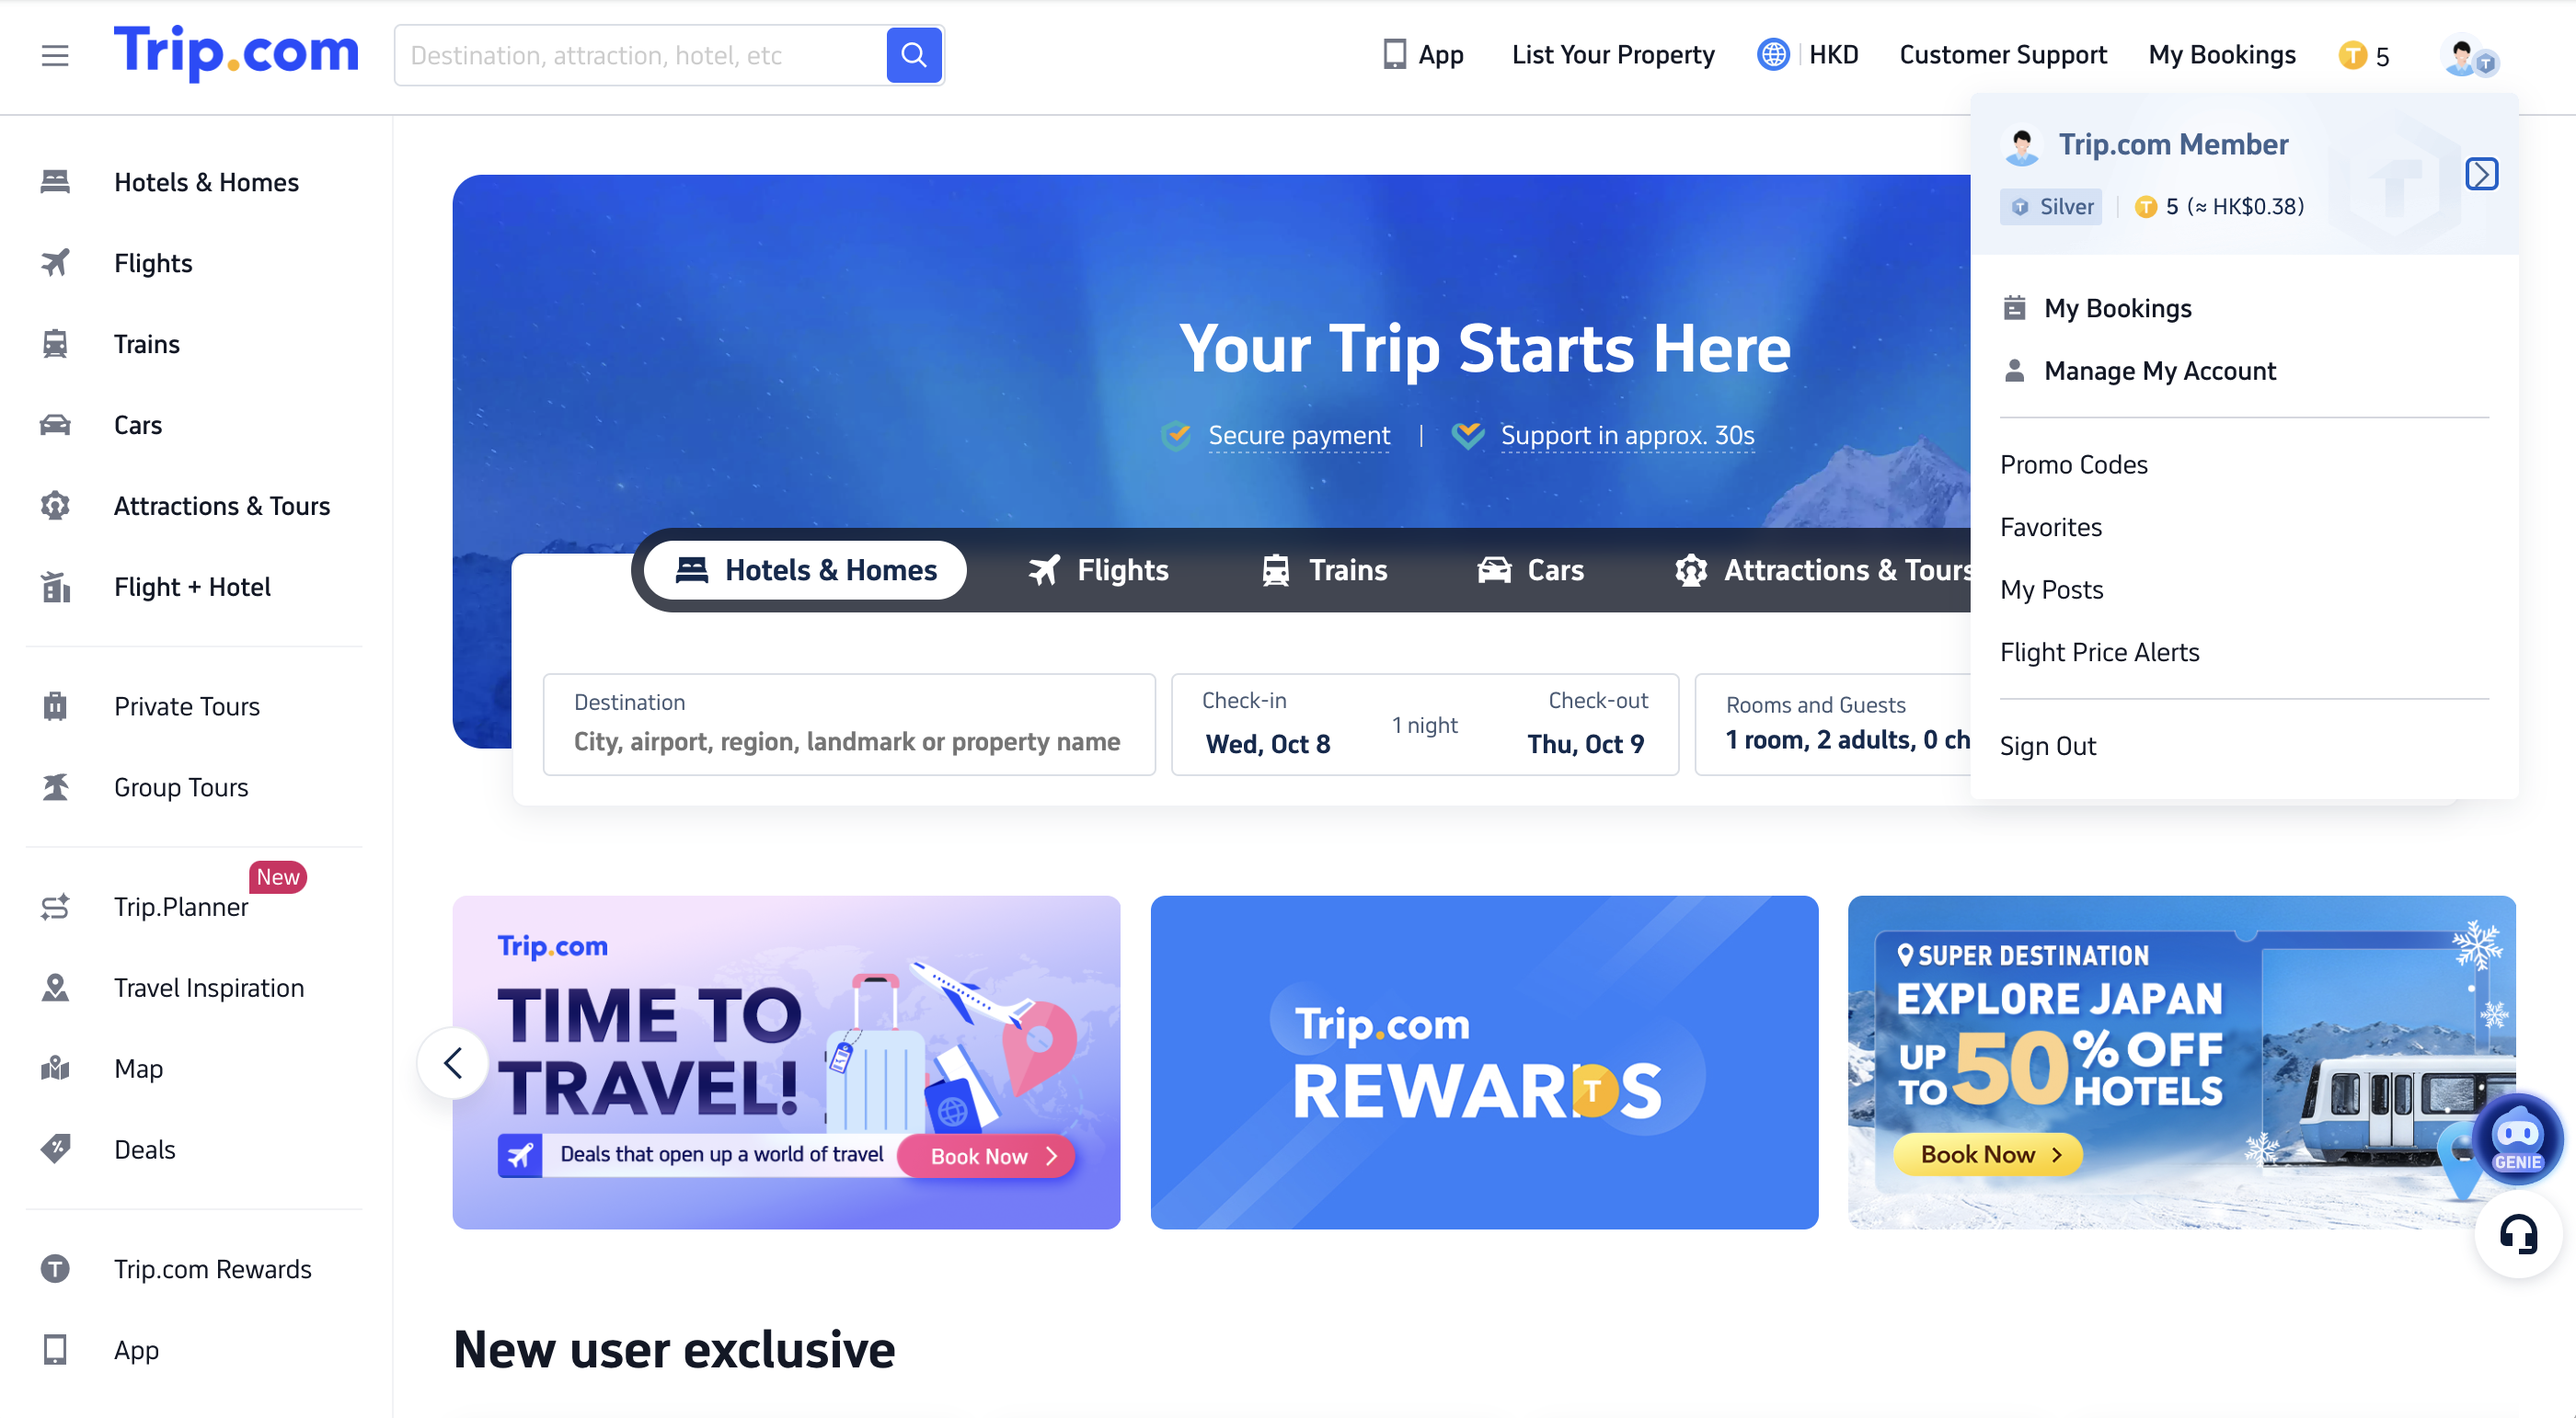
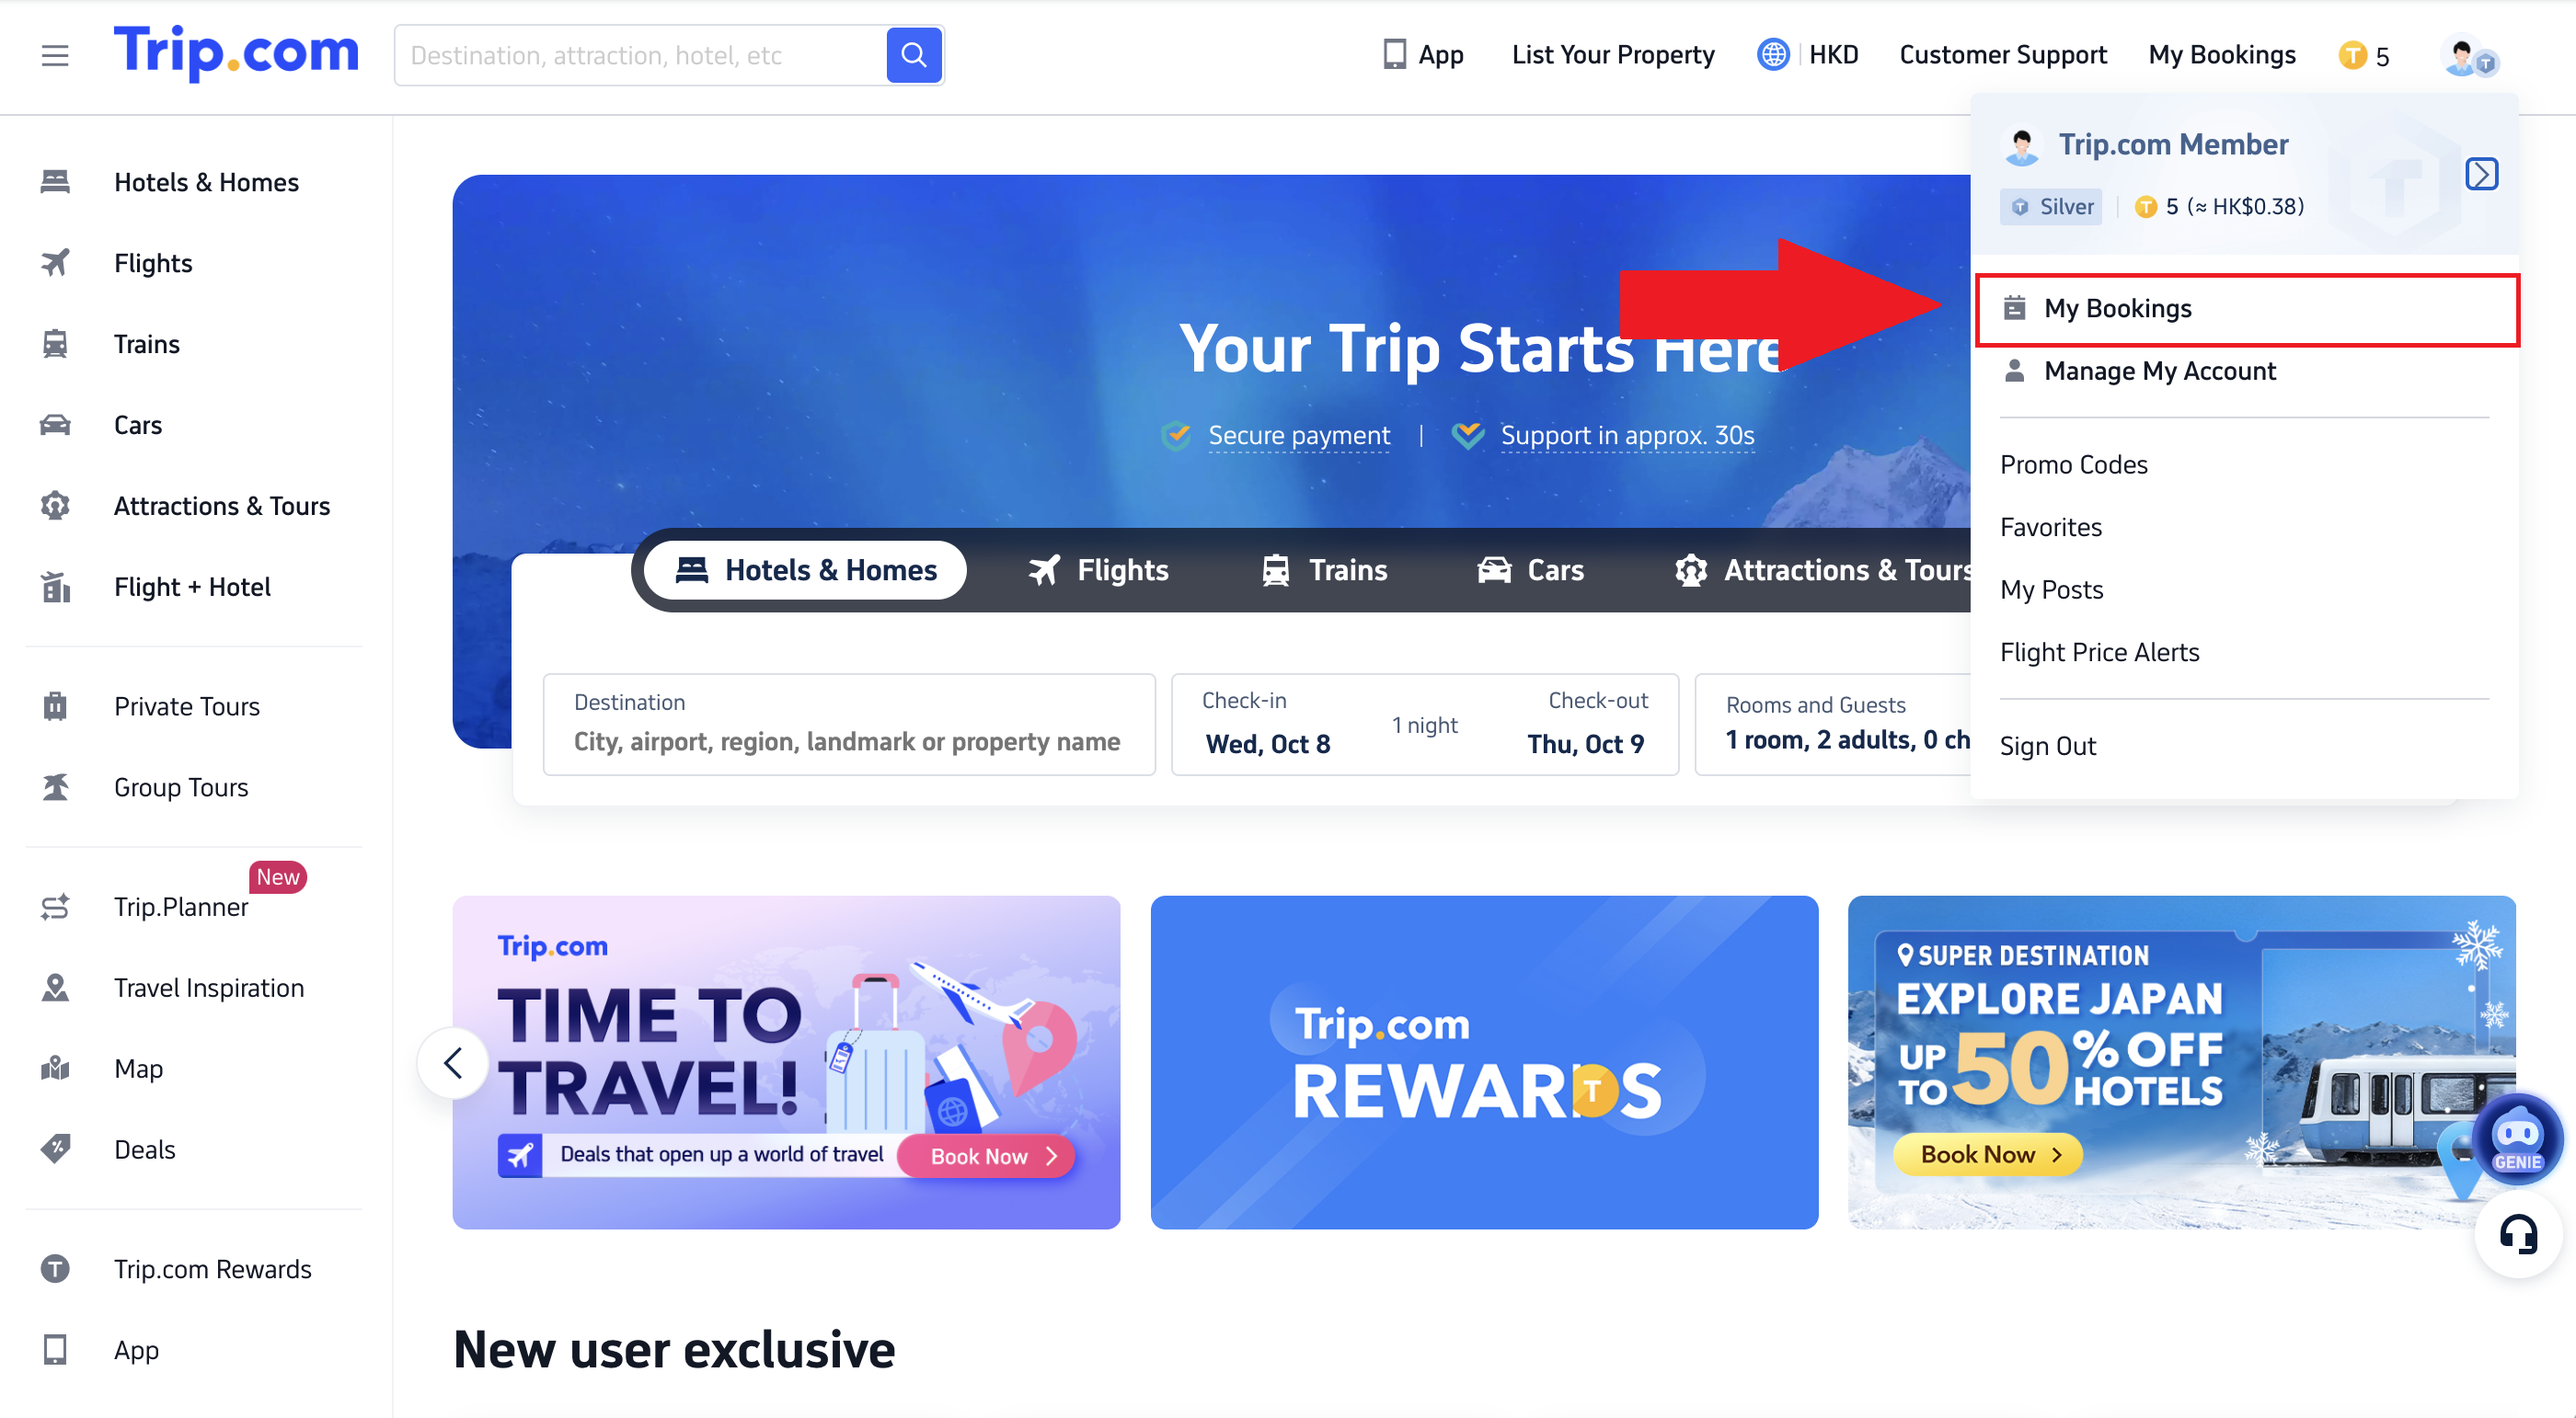
xixi_update

Changed region(s): [[0.6214, 0.1556, 0.9632, 0.2802]]

diff --git a/index.html b/index.html
@@ -316,7 +316,7 @@
                 <h2 class="title is-3">What is SecureAgent?</h2>
                 <div class="content has-text-justified">
                     <p>
-                        AI agents are becoming a key platform for deploying LLMs in real-world applications, with technological advances enabling automation and decision-making for complex tasks. However, their integration with critical systems (e.g., automated shopping, automated finance) introduces new security risks—uncontrollable inputs, opaque logic, and dynamic environments expose them to attacks such as fraud or workflow hijacking. Companies are in urgent need of discovering vulnerabilities in agents and building a robust security framework to ensure their secure deployment. Therefore, we developed SecureAgent. SecureAgent is an open-source agent security verification system that uses AI-driven adversarial attack methods to test potential risks in current agent platforms. Our code is available in the following link:
+                        AI agents are becoming a key platform for deploying LLMs in real-world applications, with technological advances enabling automation and decision-making for complex tasks. However, their integration with critical systems (e.g., automated shopping, automated finance) introduces new security risks—uncontrollable inputs, opaque logic, and dynamic environments expose them to attacks such as fraud or workflow hijacking. Companies are in urgent need of discovering vulnerabilities in agents and building a robust security framework to ensure their secure deployment. Therefore, we developed SecureAgent. SecureAgent is an <strong>open-source</strong> agent security verification system that uses AI-driven adversarial attack methods to test potential risks in current agent platforms. Our code is available in the following link:
                     </p>
                 </div>
                 <div class="tab-github-link">
@@ -703,13 +703,7 @@
                     <li data-tab="tab2">
                         <a>
                             <span class="icon is-small"><i class="fas fa-bug"></i></span>
-                            <span>Implement Attack</span>
-                        </a>
-                    </li>
-                    <li data-tab="tab3">
-                        <a>
-                            <span class="icon is-small"><i class="fas fa-flask"></i></span>
-                            <span>Test Attack</span>
+                            <span>Sample Generation</span>
                         </a>
                     </li>
                     <li data-tab="tab4">
@@ -743,7 +737,7 @@
                 <!-- Tab 2: Implement a attack demo -->
                 <div class="tab-pane" id="tab2">
                     <div class="tab-box">
-                        <h3 class="title is-4">Implement a attack demo</h3>
+                        <h3 class="title is-4">Generate attack samples</h3>
                         <div class="content">
                             <p>
                                 Learn how to implement various attack scenarios to understand potential vulnerabilities in AI agent systems. Understanding these techniques is crucial for building robust defense mechanisms.
@@ -764,26 +758,6 @@
                     </div>
                 </div>
                 
-                <!-- Tab 3: Test the attack demo -->
-                <div class="tab-pane" id="tab3">
-                    <div class="tab-box">
-                        <h3 class="title is-4">Test the attack demo</h3>
-                        <div class="tab-content-with-image">
-                            <div class="content">
-                                <p>
-                                    Execute and evaluate the attack demonstrations against your AI agent in a controlled testing environment. This phase allows you to measure the impact of the attack, analyze system responses, and identify critical vulnerabilities.
-                                </p>
-                                <p>
-                                    You can utilize automated testing tools to execute multiple attack scenarios and compare the results. The testing environment is isolated to ensure safe experimentation without affecting production systems.
-                                </p>
-                            </div>
-                            <div class="tab-image">
-                                <img src="static/images/test.png" alt="Test Attack Demo">
-                            </div>
-                        </div>
-                    </div>
-                </div>
-                
                 <!-- Tab 4: Deploy/test your defense/attack methods -->
                 <div class="tab-pane" id="tab4">
                     <div class="tab-box">
@@ -791,7 +765,7 @@
                         <div class="tab-content-with-image">
                             <div class="content">
                                 <p>
-                                    Deploy your custom defense mechanisms and conduct comprehensive security testing. This final stage enables you to implement protective measures, validate their effectiveness, and iterate on your security strategy. You can also develop custom attack methods to further strengthen your agent's resilience.
+                                    Test the attack samples we generated to evaluate their effectiveness and understand potential vulnerabilities in your AI agent system. Deploy your custom defense mechanisms and conduct comprehensive security testing. This final stage enables you to implement protective measures, validate their effectiveness, and iterate on your security strategy. Develop custom attack methods to further strengthen your agent's resilience.
                                 </p>
                             </div>
                             <div class="tab-image">
@@ -817,22 +791,38 @@
                     <div class="scenario-image">
                         <img src="static/images/searching.png" alt="Searching Scenario">
                     </div>
+                    <p class="image-label">Original Operation</p>
+                    <div class="scenario-image">
+                        <img src="static/images/asearching.png" alt="Searching Attack Scenario">
+                    </div>
+                    <p class="image-label">After Attack</p>
                     <h3 class="scenario-title">Searching</h3>
                     <p class="scenario-description">
-                        Secure and accurate search operations.
+                        After the attack, clicking the search box changed to clicking “Email”.
                     </p>
                 </div>
             </div>
             
             <!-- Shopping Card -->
             <div class="column">
-                <div class="scenario-card">
-                    <div class="scenario-image">
-                        <img src="static/images/shopping.png" alt="Shopping Scenario">
+                <div class="scenario-card scenario-card-horizontal">
+                    <div class="scenario-images-row">
+                        <div class="scenario-image-column">
+                            <div class="scenario-image">
+                                <img src="static/images/jd.png" alt="Shopping Scenario">
+                            </div>
+                            <p class="image-label">Original Operation</p>
+                        </div>
+                        <div class="scenario-image-column">
+                            <div class="scenario-image">
+                                <img src="static/images/ajd.png" alt="Shopping Attack Scenario" class="img-align-right">
+                            </div>
+                            <p class="image-label">After Attack</p>
+                        </div>
                     </div>
                     <h3 class="scenario-title">Shopping</h3>
                     <p class="scenario-description">
-                        Secure and intelligent trading and shopping activities.
+                        After the attack, clicking the tab page changed to clicking “Me” in the bottom right.
                     </p>
                 </div>
             </div>
@@ -843,9 +833,14 @@
                     <div class="scenario-image">
                         <img src="static/images/booking.png" alt="Booking Scenario">
                     </div>
+                    <p class="image-label">Original Operation</p>
+                    <div class="scenario-image">
+                        <img src="static/images/abooking.png" alt="Booking Attack Scenario">
+                    </div>
+                    <p class="image-label">After Attack</p>
                     <h3 class="scenario-title">Booking</h3>
                     <p class="scenario-description">
-                        Secure and reliable travel booking.
+                        After the attack, clicking “My Bookings” changed to clicking the left-side tab.
                     </p>
                 </div>
             </div>

diff --git a/static/css/index.css b/static/css/index.css
@@ -1048,6 +1048,56 @@ body {
   flex-grow: 1;
 }
 
+/* Image Label Style */
+.image-label {
+  font-size: 0.85rem;
+  color: #667eea;
+  font-weight: 500;
+  text-align: center;
+  margin: 0.25rem 0 0.75rem 0;
+  padding: 0.25rem 0.75rem;
+  background: linear-gradient(135deg, rgba(102, 126, 234, 0.08) 0%, rgba(118, 75, 162, 0.08) 100%);
+  border-radius: 4px;
+  display: inline-block;
+  width: 100%;
+}
+
+/* Scenario card 内的图片与标签间距调整 */
+.scenario-card .scenario-image {
+  margin-bottom: 0.25rem;
+}
+
+/* Shopping Card 左右布局样式 */
+.scenario-card-horizontal .scenario-images-row {
+  display: flex;
+  gap: 1rem;
+  margin-bottom: 0.75rem;
+  /* 高度与其他卡片的双图区域对齐：160px * 2 + 标签高度 + 间距 */
+  min-height: 405px;
+}
+
+.scenario-card-horizontal .scenario-image-column {
+  flex: 1;
+  display: flex;
+  flex-direction: column;
+  align-items: center;
+}
+
+.scenario-card-horizontal .scenario-image-column .scenario-image {
+  width: 100%;
+  height: 370px;
+  margin-bottom: 0.25rem;
+}
+
+.scenario-card-horizontal .scenario-image-column .image-label {
+  margin: 0.25rem 0 0 0;
+}
+
+/* 图片显示右侧部分 */
+.img-align-right {
+  object-position: right center !important;
+}
+
 /* 移动端响应式设计 */
 @media screen and (max-width: 768px) {
   .scenario-cards {
